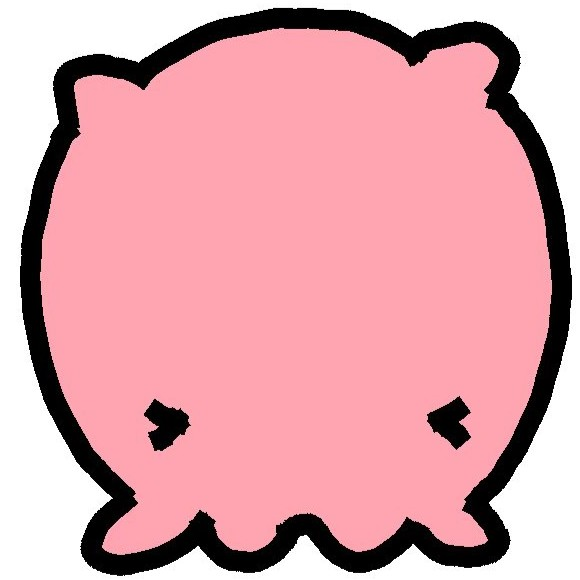
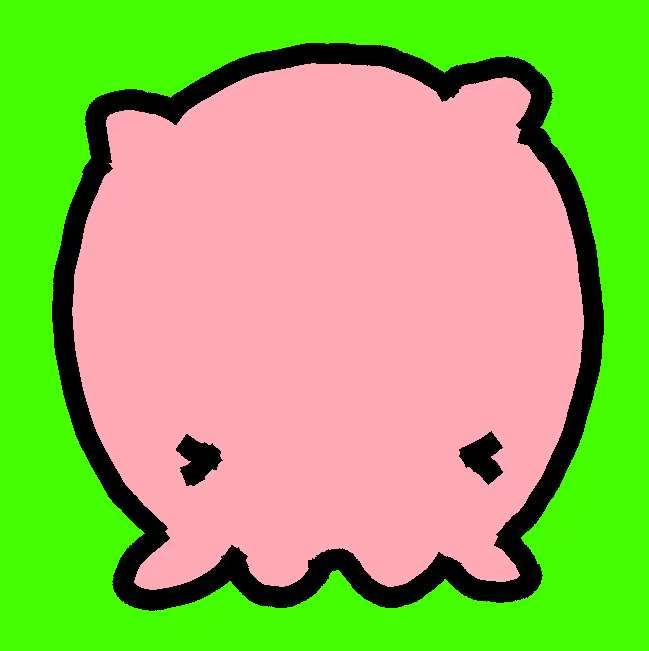
# 修改了bubble

diff --git a/03-DesktopPet/src/bubble.py b/03-DesktopPet/src/bubble.py
@@ -1,59 +1,199 @@
-"""
-气泡绘制模块
-支持多行文字，气泡高度自适应
-"""
 import tkinter as tk
+import tkinter.font as tkfont
+from PIL import Image, ImageTk
+
+# 气泡图片里，文字可用区域（根据你的画稿量一下）
+TEXT_AREA_TOP    = 40    # 距图片顶部
+TEXT_AREA_BOTTOM = 480   # 距图片顶部（尾巴以上）
+TEXT_AREA_LEFT   = 55
+TEXT_AREA_RIGHT  = 590
+
+BUBBLE_IMG_SIZE  = 648   # 原图尺寸
+BUBBLE_DISPLAY_W = 220   # 显示尺寸，等比缩放
+SCALE = BUBBLE_DISPLAY_W / BUBBLE_IMG_SIZE
 
 
-def draw(canvas, text: str, cx: int, y_top: int = 2):
-    MAX_WIDTH    = 180   # 气泡最大宽度（像素），超出自动换行
-    FONT         = ("微软雅黑", 9, "bold")
-    PAD_X        = 12
-    PAD_Y        = 8
-    LINE_HEIGHT  = 16
+class Bubble:
+    def __init__(self, master: tk.Tk):
+        self._master    = master
+        self._win       = None
+        self._canvas    = None
+        self._hide_job  = None
+        self._img_tk    = None
 
-    # ── 按最大宽度手动折行 ────────────────────────────
-    lines = _wrap_text(text, MAX_WIDTH, char_width=9)
+        self._font      = tkfont.Font(family="宋体", size=10)
+        self._line_h    = 18
+        self._scroll_y  = 0
+        self._content_h = 0
+        self._lines     = []
 
-    bw   = min(max(max(len(l) for l in lines) * 9 + PAD_X * 2, 80), MAX_WIDTH + PAD_X * 2)
-    bh   = LINE_HEIGHT * len(lines) + PAD_Y * 2
+        # 文字可用区域（缩放后）+ 内边距，避免贴边
+        _PAD = 10
+        self._tx1 = int(TEXT_AREA_LEFT   * SCALE) + _PAD
+        self._tx2 = int(TEXT_AREA_RIGHT  * SCALE) - _PAD
+        self._ty1 = int(TEXT_AREA_TOP    * SCALE) + _PAD
+        self._ty2 = int(TEXT_AREA_BOTTOM * SCALE) - _PAD
+        self._tw  = self._tx2 - self._tx1
 
-    bx1  = max(4, cx - bw // 2)
-    bx2  = bx1 + bw
-    by1  = y_top
-    by2  = by1 + bh
-    mid  = (bx1 + bx2) // 2
+        # 显示尺寸
+        self._W = BUBBLE_DISPLAY_W
+        self._H = int(BUBBLE_IMG_SIZE * SCALE)
 
-    # 外黑框
-    canvas.create_rectangle(bx1 - 2, by1 - 2, bx2 + 2, by2 + 2,
-                             fill="#1A0A00", outline="")
-    # 内白底
-    canvas.create_rectangle(bx1, by1, bx2, by2,
-                             fill="#FFF5EE", outline="")
-    # 小尾巴
-    canvas.create_rectangle(mid - 4, by2,     mid + 4, by2 + 6,  fill="#FFF5EE", outline="")
-    canvas.create_rectangle(mid - 2, by2 + 6, mid + 2, by2 + 10, fill="#FFF5EE", outline="")
+        self._load_image()
 
-    # ── 逐行绘制文字 ──────────────────────────────────
-    for i, line in enumerate(lines):
-        ty = by1 + PAD_Y + i * LINE_HEIGHT + LINE_HEIGHT // 2
-        canvas.create_text(cx, ty,
-                           text=line,
-                           fill="#1A0A00",
-                           font=FONT,
-                           anchor="center")
+    def _load_image(self):
+        img = Image.open("assets/bubble_00.jpg").convert("RGBA")
+        img = img.resize((self._W, self._H), Image.LANCZOS)
+        img = self._remove_green_bg(img)
 
+        # tkinter Canvas 不支持透明通道，把 alpha=0 的像素
+        # 替换为窗口 transparentcolor（#000001），让系统打孔透明
+        bg = Image.new("RGBA", img.size, (0, 0, 1, 255))   # #000001
+        img = Image.composite(img, bg, img.split()[3])      # alpha 做蒙版
+        self._img_tk = ImageTk.PhotoImage(img.convert("RGB"))
 
-def _wrap_text(text: str, max_width: int, char_width: int = 9) -> list[str]:
-    """按最大宽度折行，支持手动换行符"""
-    result = []
-    for paragraph in text.split("\n"):
-        line = ""
-        for char in paragraph:
-            if (len(line) + 1) * char_width > max_width:
-                result.append(line)
-                line = char
+    @staticmethod
+    def _remove_green_bg(img: Image.Image, spill_fix: bool = True) -> Image.Image:
+        """去除绿幕背景，可选抑制边缘绿色溢出"""
+        data = img.getdata()
+        new_data = []
+        for r, g, b, a in data:
+            if g > 80 and g > r * 1.4 and g > b * 1.4:
+                new_data.append((0, 0, 0, 0))          # 完全透明
+            elif spill_fix and g > r + 20 and g > b + 20:
+                corrected_g = (r + b) // 2             # 压低溢出的绿色
+                new_data.append((r, corrected_g, b, a))
             else:
-                line += char
-        result.append(line)
-    return result or [""]
+                new_data.append((r, g, b, a))
+        img.putdata(new_data)
+        return img
+
+    # ── 对外接口 ─────────────────────────────────────
+
+    def show(self, text: str, anchor_x: int, anchor_y: int, duration: int = 5000):
+        self._cancel_hide()
+        self._lines    = self._wrap(text)
+        self._scroll_y = 0
+        self._content_h = len(self._lines) * self._line_h + 8
+
+        if self._win is None:
+            self._build()
+
+        x = anchor_x - self._W // 2
+        y = anchor_y - self._H
+        self._win.geometry(f"{self._W}x{self._H}+{x}+{y}")
+        self._win.deiconify()
+        self._redraw()
+
+        if duration > 0:
+            self._hide_job = self._master.after(duration, self.hide)
+
+    def hide(self):
+        self._cancel_hide()
+        if self._win:
+            self._win.withdraw()
+
+    # ── 构建 ─────────────────────────────────────────
+
+    def _build(self):
+        w = tk.Toplevel(self._master)
+        w.overrideredirect(True)
+        w.attributes("-topmost", True)
+        w.attributes("-transparentcolor", "#000001")
+        w.config(bg="#000001")
+        w.withdraw()
+
+        c = tk.Canvas(w, width=self._W, height=self._H,
+                      bg="#000001", highlightthickness=0)
+        c.pack()
+
+        c.bind("<Enter>",         self._on_enter)
+        c.bind("<Leave>",         self._on_leave)
+        c.bind("<ButtonPress-1>", self._on_drag_start)
+        c.bind("<B1-Motion>",     self._on_drag_move)
+        c.bind("<MouseWheel>",    self._on_wheel)
+
+        self._win    = w
+        self._canvas = c
+
+    # ── 绘制 ─────────────────────────────────────────
+
+    def _redraw(self):
+        c = self._canvas
+        c.delete("all")
+
+        # 气泡图片
+        c.create_image(0, 0, image=self._img_tk, anchor="nw")
+
+        # 文字区域（裁剪在 ty1~ty2 之间）
+        cx     = (self._tx1 + self._tx2) // 2
+        clip_h = self._ty2 - self._ty1
+
+        # 内容少时整体垂直居中；内容多时从 ty1 顶部开始（可滚动）
+        if self._content_h <= clip_h:
+            text_top = self._ty1 + (clip_h - self._content_h) // 2
+        else:
+            text_top = self._ty1
+
+        cx = (self._tx1 + self._tx2) // 2
+        for i, line in enumerate(self._lines):
+            ty = text_top + i * self._line_h - self._scroll_y + self._line_h // 2
+            if ty < self._ty1 or ty > self._ty2:
+                continue
+            c.create_text(cx, ty, text=line,
+                          fill="#1A0A00", font=self._font, anchor="center")
+
+        # 滚动条（内容超出时显示）
+        if self._content_h > clip_h:
+            ratio = clip_h / self._content_h
+            bar_h = max(int(clip_h * ratio), 16)
+            bar_y = self._ty1 + int((self._scroll_y / self._content_h) * clip_h)
+            c.create_rectangle(self._tx2 - 4, bar_y,
+                               self._tx2 - 1, bar_y + bar_h,
+                               fill="#888", outline="")
+
+    # ── 事件 ─────────────────────────────────────────
+
+    def _on_enter(self, _):
+        self._cancel_hide()
+
+    def _on_leave(self, _):
+        self._hide_job = self._master.after(2000, self.hide)
+
+    def _on_drag_start(self, e):
+        self._drag_y = e.y
+
+    def _on_drag_move(self, e):
+        dy = self._drag_y - e.y
+        self._drag_y = e.y
+        self._clamp_scroll(self._scroll_y + dy)
+        self._redraw()
+
+    def _on_wheel(self, e):
+        self._clamp_scroll(self._scroll_y - e.delta // 2)
+        self._redraw()
+
+    def _clamp_scroll(self, val):
+        max_s = max(0, self._content_h - (self._ty2 - self._ty1))
+        self._scroll_y = max(0, min(val, max_s))
+
+    def _cancel_hide(self):
+        if self._hide_job:
+            self._master.after_cancel(self._hide_job)
+            self._hide_job = None
+
+    # ── 折行 ─────────────────────────────────────────
+
+    def _wrap(self, text: str) -> list[str]:
+        result = []
+        for para in text.split("\n"):
+            line = ""
+            for ch in para:
+                if self._font.measure(line + ch) > self._tw:
+                    if line:
+                        result.append(line)
+                    line = ch
+                else:
+                    line += ch
+            result.append(line)
+        return result or [""]

diff --git a/03-DesktopPet/src/pet.py b/03-DesktopPet/src/pet.py
@@ -35,10 +35,11 @@ class ClaudePet:
         self.frames_default = load_frames(ASSETS["default"], PET_SIZE)
         self.frames_blink   = load_frames(ASSETS["blink"],   PET_SIZE)
 
-        self.anim_tick   = 0
-        self.blinking    = False
-        self.bubble_text = ""
-        self.bubble_show = False
+        self.anim_tick = 0
+        self.blinking  = False
+
+        # ── 气泡（正确初始化）─────────────────────────────
+        self.bubble = bubble.Bubble(self.root)
 
         # 行为大脑
         self.behavior = Behavior(PET_SIZE)
@@ -64,15 +65,15 @@ class ClaudePet:
             self.y = new_y
             self.root.geometry(f"+{self.x}+{self.y}")
 
+        # 气泡每帧跟随宠物（无论行走/拖动/弹跳）
+        self._reposition_bubble()
+
         bounce = 0
         if self.behavior.state == IDLE:
             bounce = int(math.sin(self.anim_tick * 0.07) * BOUNCE_AMPLITUDE)
 
         cx = self.W // 2
         oy = 48 + bounce
-
-        if self.bubble_show and self.bubble_text:
-            bubble.draw(self.canvas, self.bubble_text, cx)
 
         frames = self.frames_blink if (self.blinking and self.frames_blink) \
                  else self.frames_default
@@ -103,6 +104,7 @@ class ClaudePet:
             self.y = e.y_root - self.drag_sy
             self.root.geometry(f"+{self.x}+{self.y}")
 
+
     def _on_release(self, e):
         self.dragging = False
         self.behavior.set_position(self.x, self.y)
@@ -122,13 +124,23 @@ class ClaudePet:
         m.tk_popup(e.x_root, e.y_root)
 
     # ── 气泡 ────────────────────────────────────────────
-    def show_bubble(self, text, duration=BUBBLE_DURATION):
-        self.bubble_text = text
-        self.bubble_show = True
-        self.root.after(duration, self._hide_bubble)
+    def _bubble_anchor(self):
+        """计算气泡锚点：宠物头部中心的屏幕坐标"""
+        ax = self.x + self.W // 2
+        ay = self.y + 48  # 头部顶端偏移，可按实际图稿微调
+        return ax, ay
 
-    def _hide_bubble(self):
-        self.bubble_show = False
+    def show_bubble(self, text: str, duration: int = BUBBLE_DURATION):
+        ax, ay = self._bubble_anchor()
+        self.bubble.show(text, anchor_x=ax, anchor_y=ay, duration=duration)
+
+    def _reposition_bubble(self):
+        """拖动时让已显示的气泡跟随宠物"""
+        if self.bubble._win and self.bubble._win.winfo_ismapped():
+            ax, ay = self._bubble_anchor()
+            x = ax - self.bubble._W // 2
+            y = ay - self.bubble._H
+            self.bubble._win.geometry(f"{self.bubble._W}x{self.bubble._H}+{x}+{y}")
 
     # ── 眨眼 ────────────────────────────────────────────
     def _blink_loop(self):
@@ -140,7 +152,7 @@ class ClaudePet:
     # ── 提醒循环（alert.py 驱动）────────────────────────
     def _alert_loop(self):
         msg = self.behavior.get_alert()
-        if msg and not self.bubble_show:
+        if msg:
             self.show_bubble(msg, duration=4000)
         self.root.after(60000, self._alert_loop)  # 每分钟检查一次
 

diff --git a/03-DesktopPet/src/loader.py b/03-DesktopPet/src/loader.py
@@ -2,7 +2,6 @@ from PIL import Image, ImageTk
 import os
 
 
-
 def load_frames(path_list, size):
     frames = []
     for path in path_list:
@@ -11,18 +10,28 @@ def load_frames(path_list, size):
             continue
         img = Image.open(path).convert("RGBA")
         img = img.resize((size, size), Image.LANCZOS)
-        img = _remove_white_bg(img)
+        img = _remove_green_bg(img)
         frames.append(ImageTk.PhotoImage(img))
     return frames
 
 
-def _remove_white_bg(img, threshold=230):
-    """把接近白色的像素变成透明"""
+def _remove_green_bg(img, spill_fix=True):
+    """
+    把绿幕背景像素变成透明。
+    判断条件：g 明显大于 r 和 b，且 g 本身足够亮。
+    spill_fix=True 时同时抑制边缘绿色溢出（green spill）。
+    """
     data = img.getdata()
     new_data = []
     for r, g, b, a in data:
-        if r > threshold and g > threshold and b > threshold:
-            new_data.append((255, 255, 255, 0))
+        # 核心绿幕判断
+        if g > 80 and g > r * 1.4 and g > b * 1.4:
+            # 完全透明
+            new_data.append((0, 0, 0, 0))
+        elif spill_fix and g > r + 20 and g > b + 20:
+            # 边缘溢出：压低 g 通道，保留透明度
+            corrected_g = (r + b) // 2
+            new_data.append((r, corrected_g, b, a))
         else:
             new_data.append((r, g, b, a))
     img.putdata(new_data)
